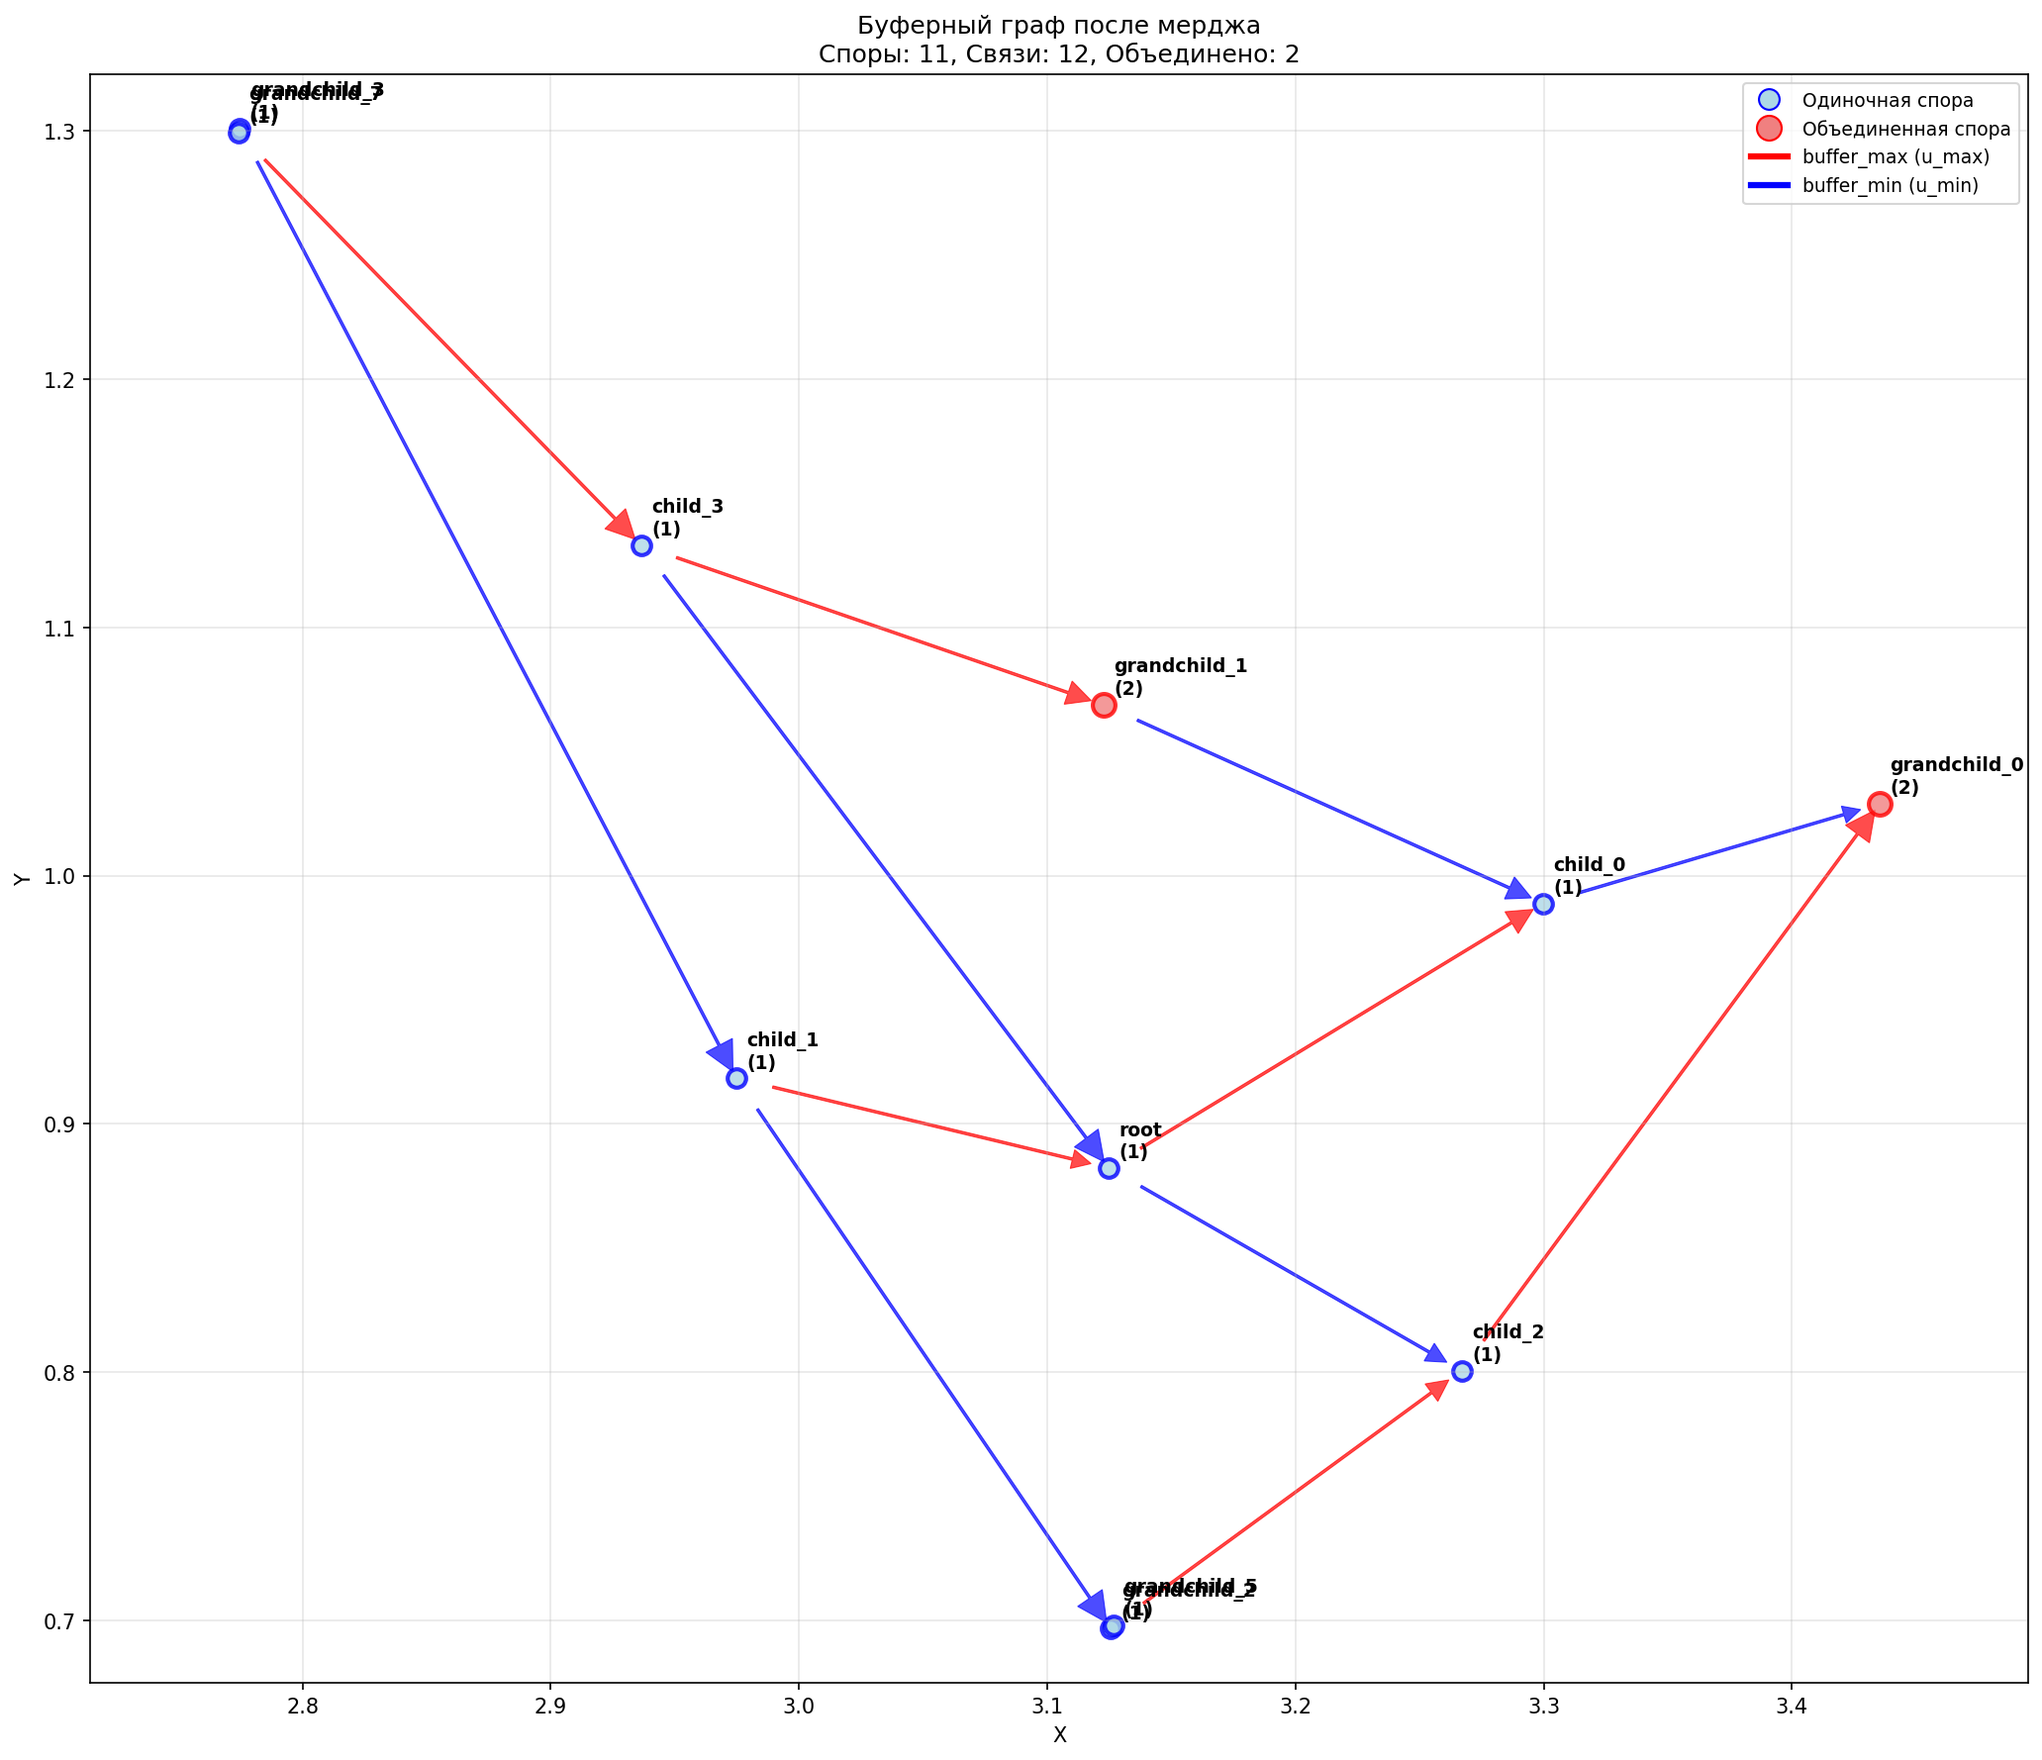
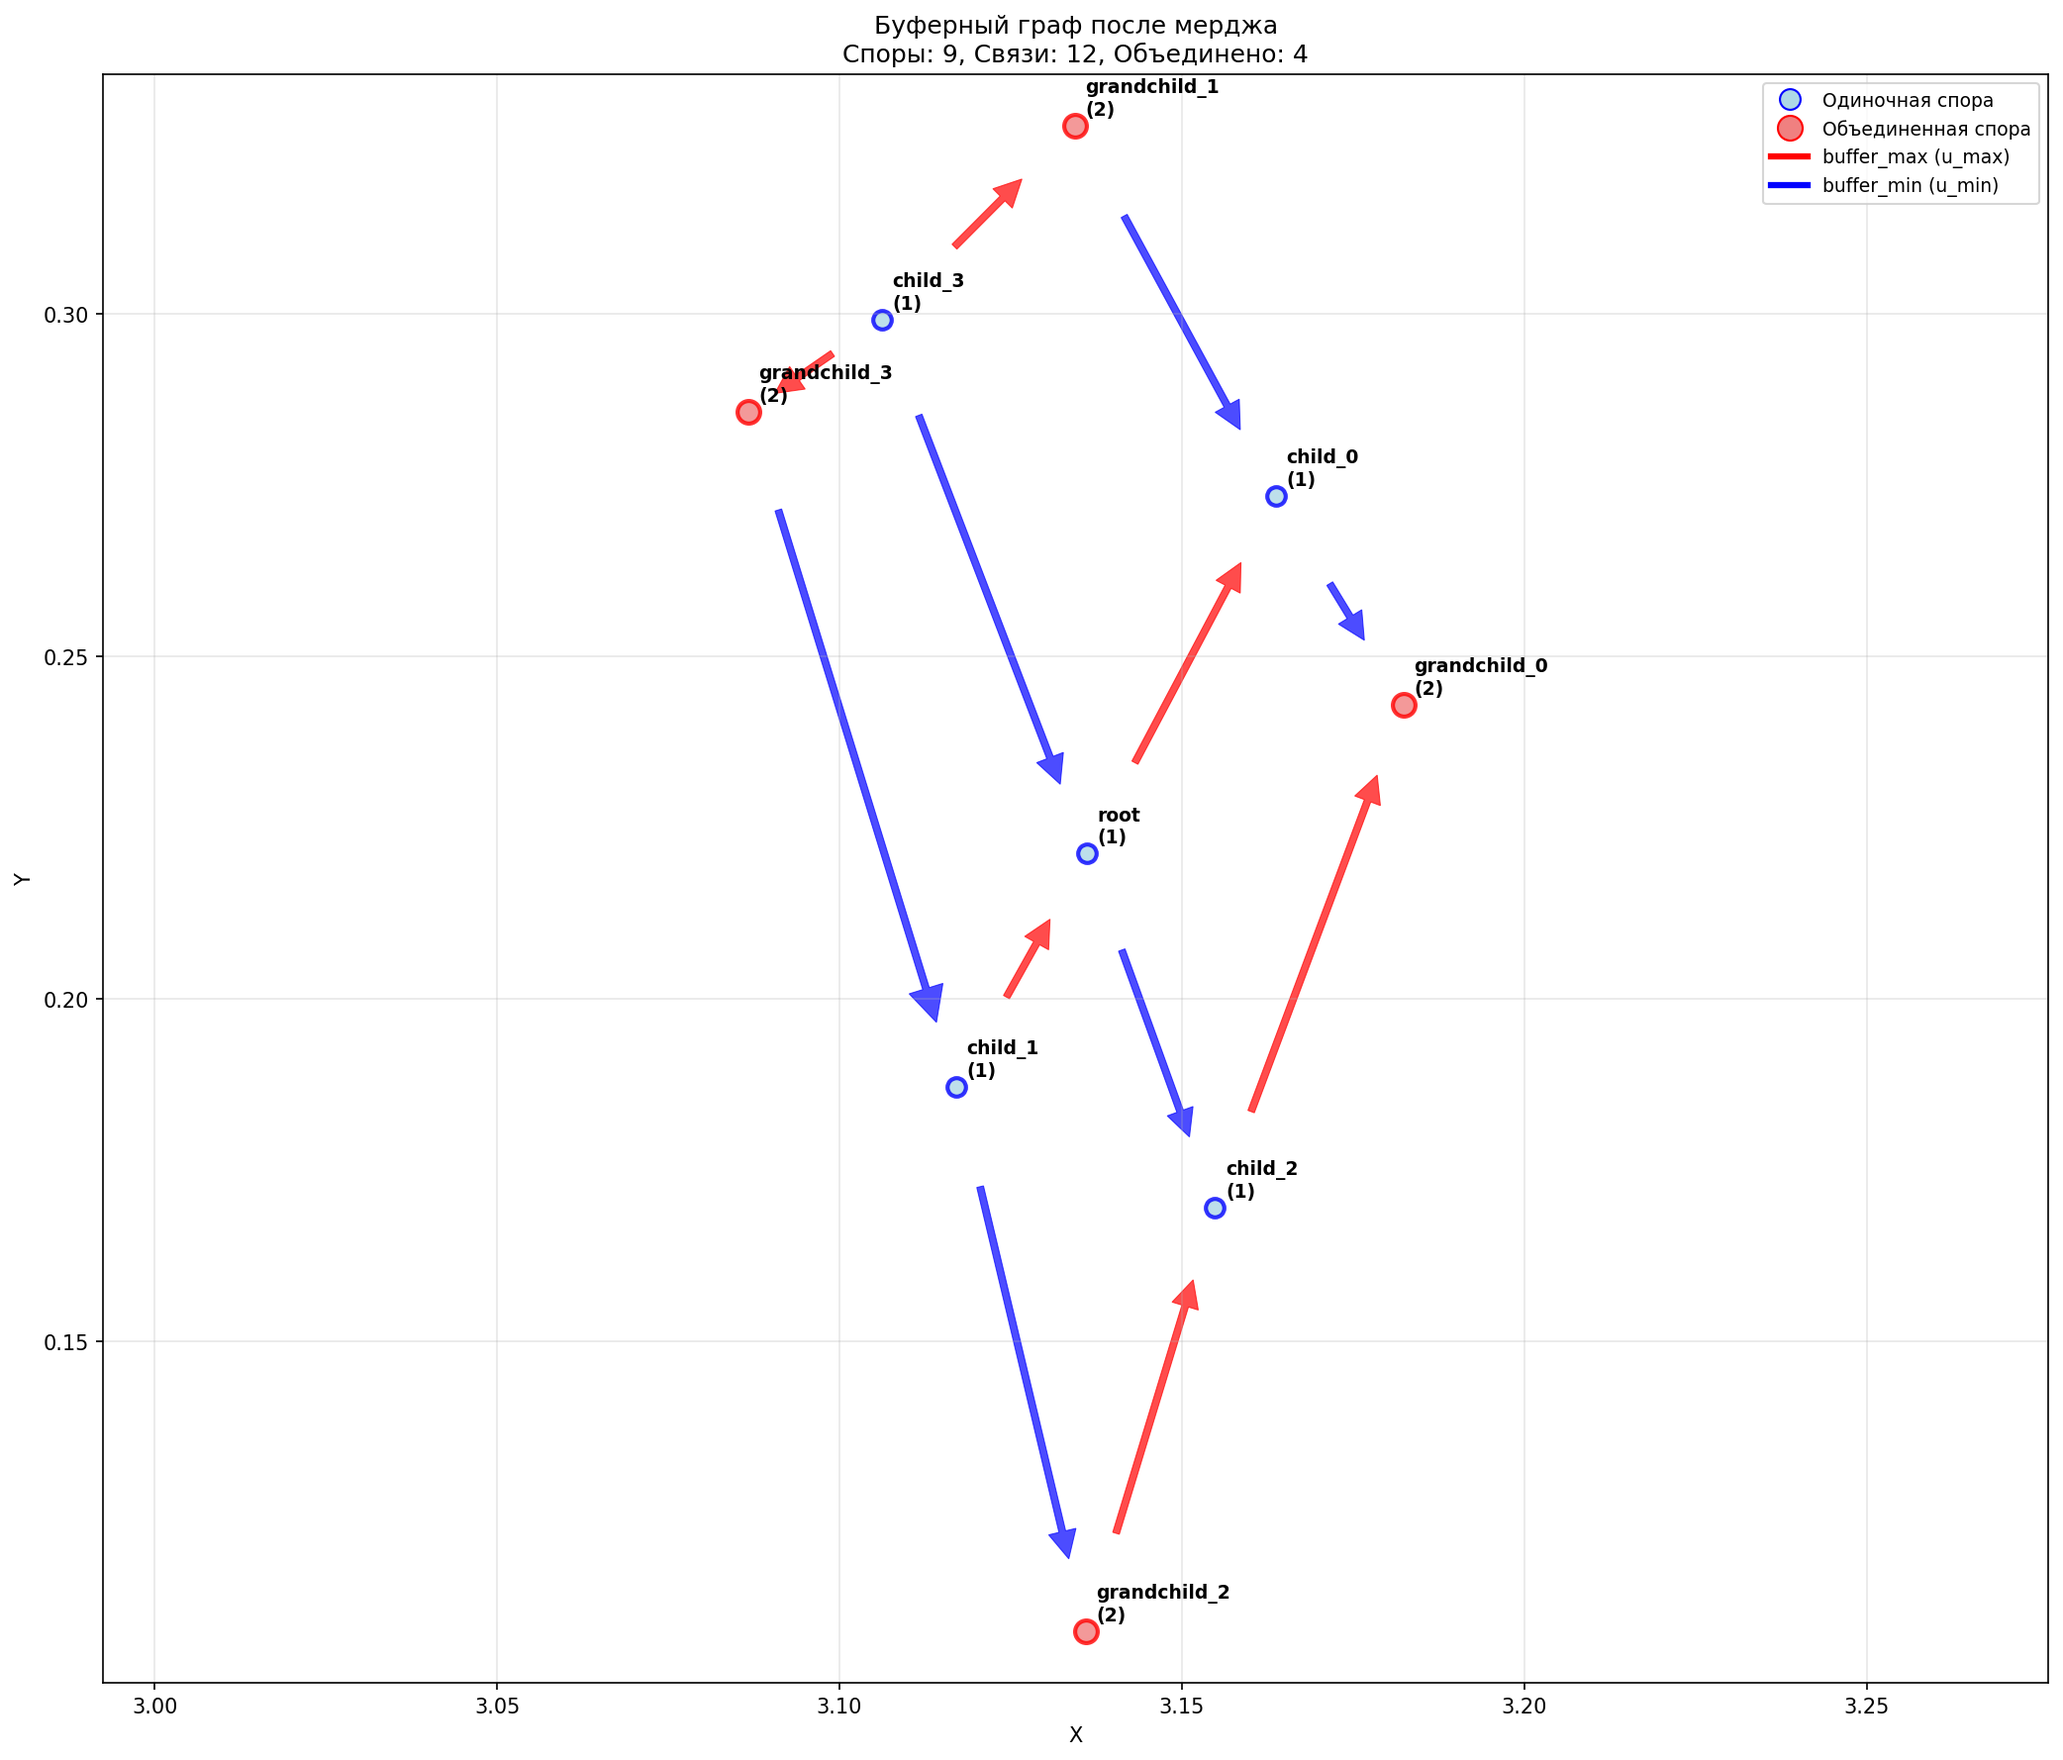
сменил имена на номера

diff --git a/spores/v16_picker/src/managers/buffer_merge_manager.py b/spores/v16_picker/src/managers/buffer_merge_manager.py
@@ -1144,16 +1144,18 @@ class BufferMergeManager:
                 ax.scatter(pos[0], pos[1], s=marker_size, c=color,
                           alpha=0.8, edgecolors=edge_color, linewidth=2)
                 
-                # Подпись
-                spore_id = getattr(spore, 'id', 'unknown')
-                # 🔧 ИСПРАВЛЕНИЕ: Безопасное получение строкового ID
-                if isinstance(spore_id, int):
-                    label = f"id_{spore_id}"
-                else:
-                    label = str(spore_id).replace('real_buffer_', '')
+                # Подпись: простые номера для читаемости
+                # Используем индекс в списке + 1 для нумерации от 1
+                spore_index = next((i for i, s in enumerate(real_spores) if s is spore), 0)
+                label = str(spore_index + 1)
+
+                # Добавляем символ цели для целевых спор
+                if getattr(spore, 'is_goal', False):
+                    label += "🎯"
+
                 ax.annotate(label, (pos[0], pos[1]),
                            xytext=(5, 5), textcoords='offset points',
-                           fontsize=9, ha='left', weight='bold')
+                           fontsize=10, ha='left', weight='bold')
 
     def _draw_real_links(self, ax, real_links, spore_manager):
         """Рисует реальные связи."""
